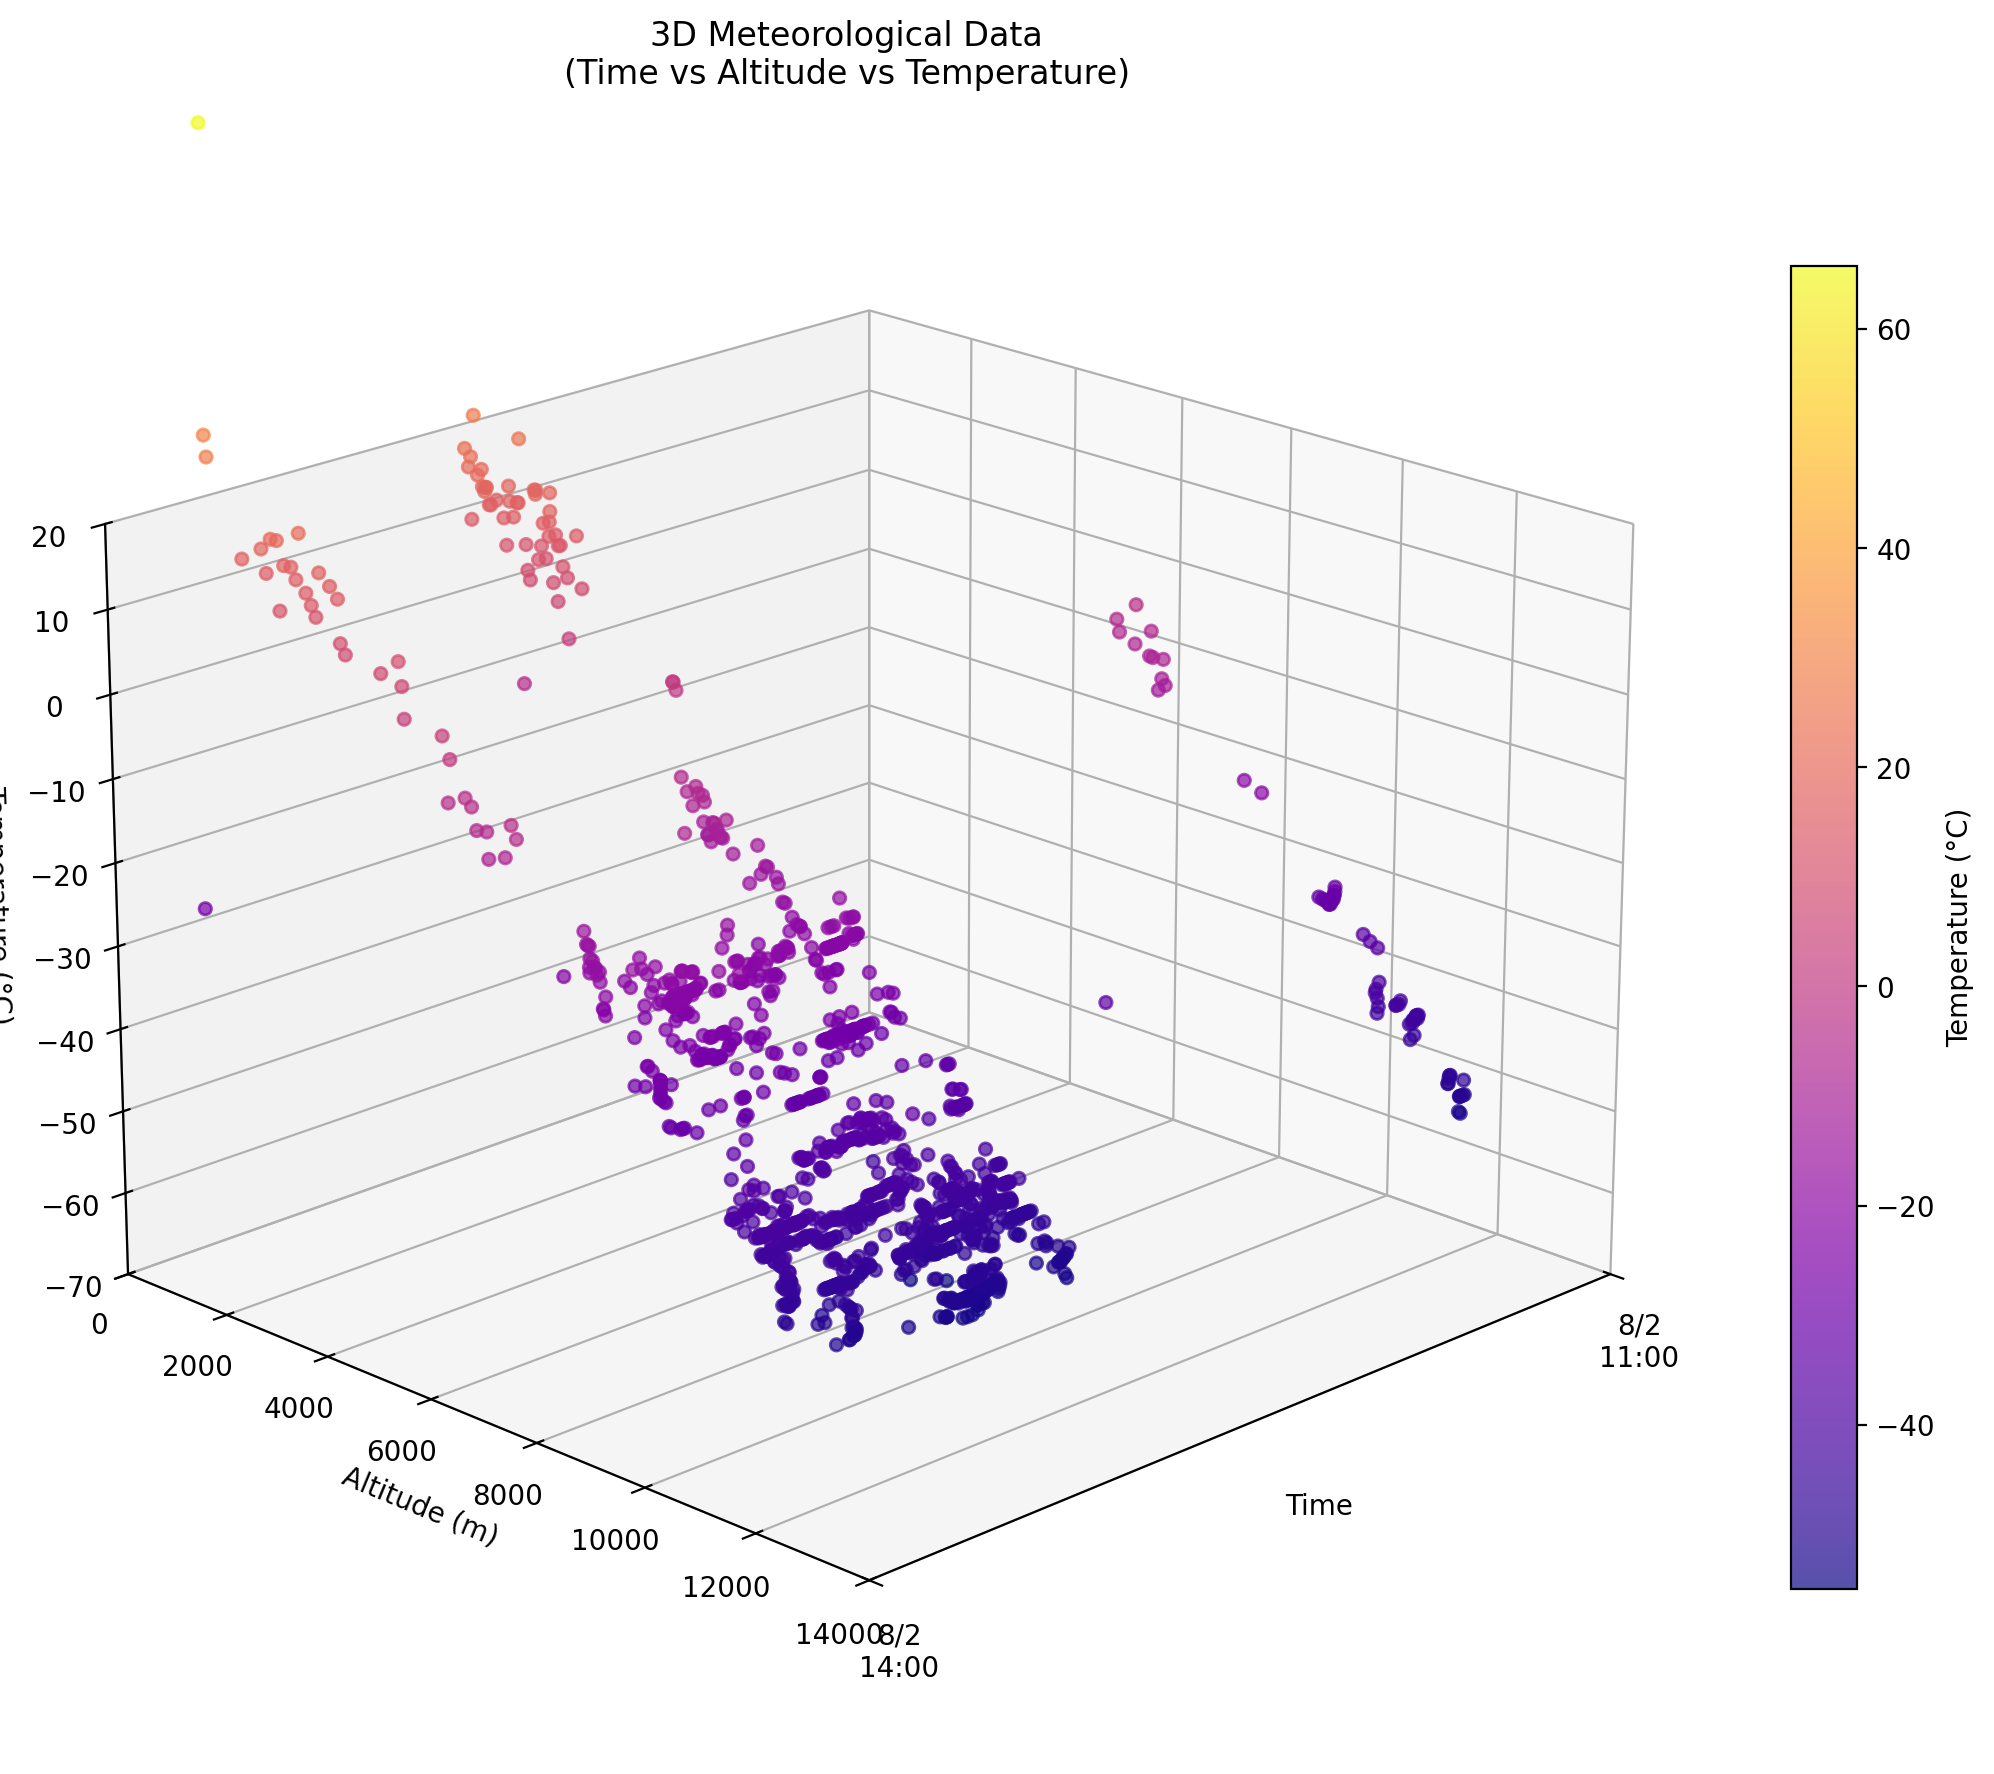
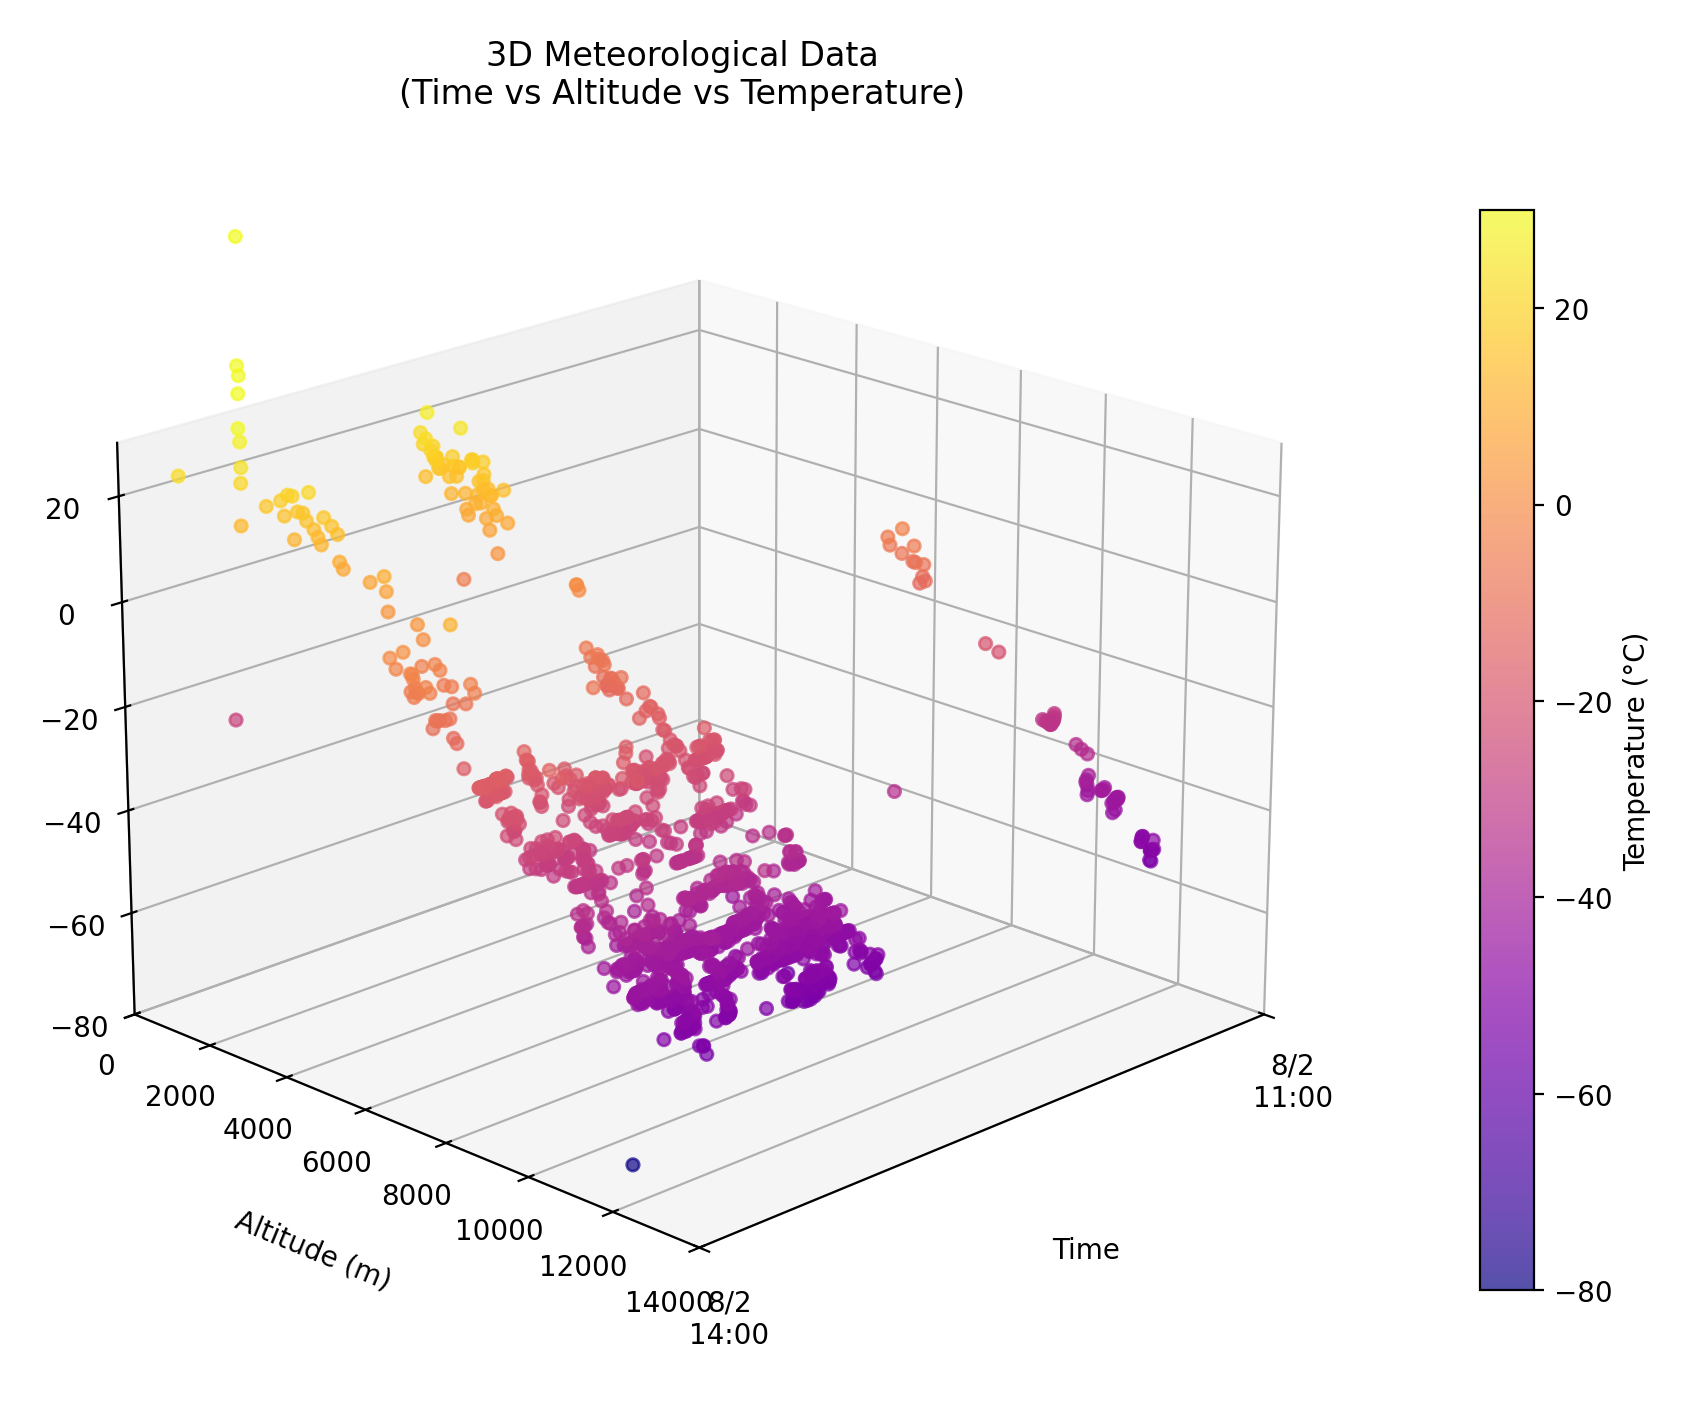
fix: 3Dプロットの表示問題を修正し温度範囲を調整

diff --git a/src/modes-sensing/graph.py b/src/modes-sensing/graph.py
@@ -136,10 +136,10 @@ def plot_3d(data_list, filename="3d_plot.png"):
         alpha=0.7,
     )
 
-    # 軸ラベルの設定（パディングを追加）
-    ax.set_xlabel("Time", labelpad=10)
-    ax.set_ylabel("Altitude (m)", labelpad=10)
-    ax.set_zlabel("Temperature (°C)", labelpad=10)
+    # 軸ラベルの設定（パディングを追加、z軸は特に大きく）
+    ax.set_xlabel("Time", labelpad=15)
+    ax.set_ylabel("Altitude (m)", labelpad=15)
+    ax.set_zlabel("Temperature (°C)", labelpad=20)
 
     # 時間軸のフォーマット設定
     ax.xaxis.set_major_formatter(mdates.DateFormatter("%-m/%-d\n%-H:00"))
@@ -147,10 +147,11 @@ def plot_3d(data_list, filename="3d_plot.png"):
 
     # 軸の範囲設定
     ax.set_ylim(0, 14000)
-    ax.set_zlim(-70, 20)
+    ax.set_zlim(-80, 30)
 
-    # カラーバーの追加
-    cbar = matplotlib.pyplot.colorbar(scatter, shrink=0.8)
+    # カラーバーの追加と範囲設定
+    scatter.set_clim(-80, 30)
+    cbar = matplotlib.pyplot.colorbar(scatter, shrink=0.8, pad=0.1)
     cbar.set_label("Temperature (°C)")
 
     # 視点の設定（斜め上から見下ろす角度）
@@ -158,10 +159,9 @@ def plot_3d(data_list, filename="3d_plot.png"):
 
     # タイトルとレイアウト調整
     ax.set_title("3D Meteorological Data\n(Time vs Altitude vs Temperature)")
-    matplotlib.pyplot.tight_layout()
 
-    # 余白を調整してラベルが切れないようにする
-    matplotlib.pyplot.subplots_adjust(left=0.1, right=0.9, top=0.9, bottom=0.1)
+    # 余白を大幅に調整してラベルが切れないようにする
+    matplotlib.pyplot.subplots_adjust(left=0.15, right=0.85, top=0.9, bottom=0.15)
 
     # ファイル保存
     matplotlib.pyplot.savefig(
@@ -192,7 +192,7 @@ def plot(data_list):
         marker="o",
         s=10,
     )
-    sc.set_clim(-70, 20)
+    sc.set_clim(-80, 30)
     ax.set_ylim(0, 14000)
 
     # 軸ラベルの設定
